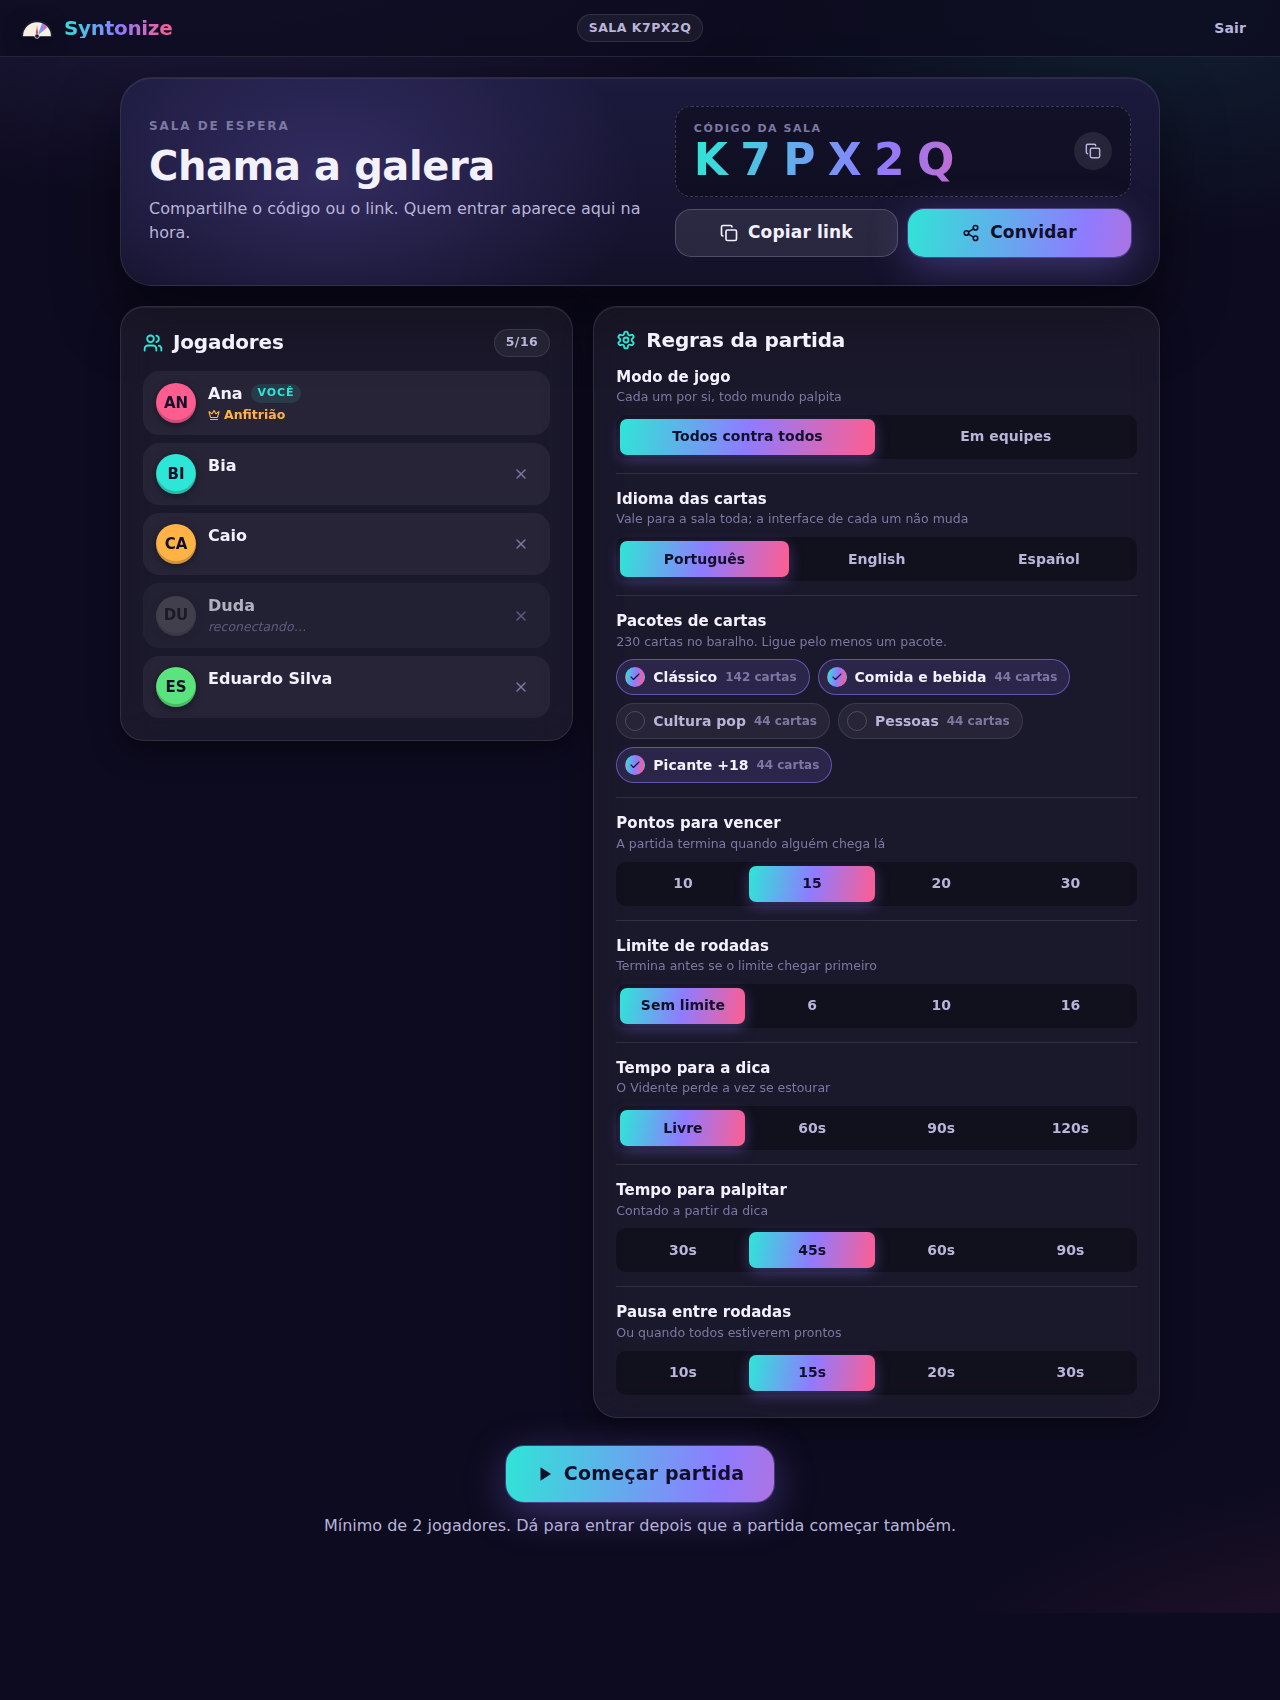
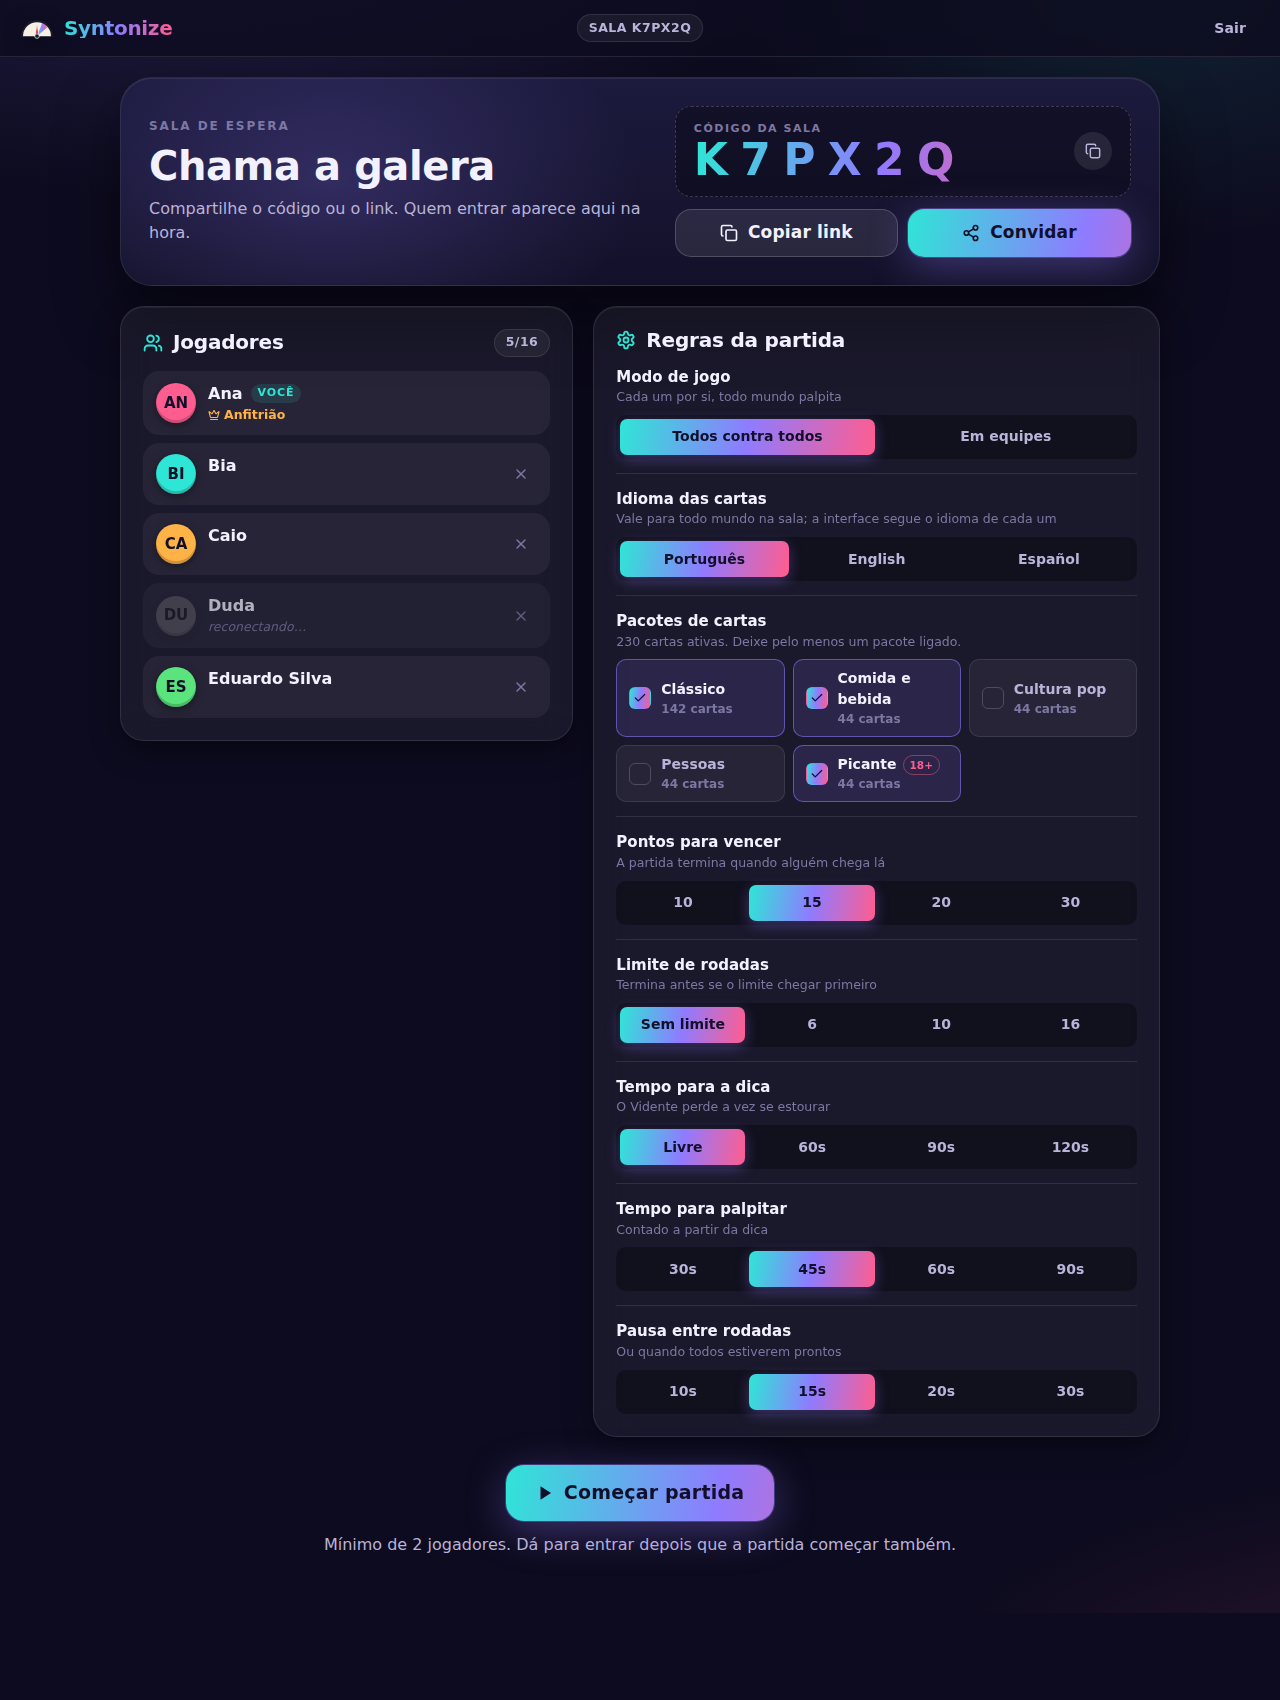
Ajusta seletor de pacotes à referência de layout
Pacotes viram checkboxes grandes em grade, com selo 18+ no Picante e o
total de "cartas ativas"; nota do idioma das cartas reescrita.

Claude-Session: https://claude.ai/code/session_01Rh3UrqbmGMJqwe9VHm7B96

diff --git a/src/components/CardPackPicker/CardPackPicker.module.css b/src/components/CardPackPicker/CardPackPicker.module.css
@@ -1,21 +1,20 @@
 .packs {
-    display: flex;
-    flex-wrap: wrap;
+    display: grid;
+    grid-template-columns: repeat(auto-fill, minmax(150px, 1fr));
     gap: 8px;
 }
 
 .pack {
-    display: inline-flex;
+    display: flex;
     align-items: center;
-    gap: 8px;
-    min-height: 36px;
-    padding: 0 12px 0 8px;
-    font-size: 14px;
-    font-weight: 800;
+    gap: 10px;
+    min-height: 52px;
+    padding: 8px 12px;
+    text-align: left;
     color: var(--text-2);
     background: var(--surface);
     border: 1px solid var(--line);
-    border-radius: var(--radius-full);
+    border-radius: var(--radius-sm);
     transition: background var(--t-fast), border-color var(--t-fast), color var(--t-fast);
 }
 
@@ -33,9 +32,9 @@
     display: inline-flex;
     align-items: center;
     justify-content: center;
-    width: 20px;
-    height: 20px;
-    border-radius: 50%;
+    width: 22px;
+    height: 22px;
+    border-radius: 6px;
     border: 1.5px solid var(--line-2);
     flex-shrink: 0;
 }
@@ -53,13 +52,32 @@
     background: var(--brand-gradient);
 }
 
+.packText {
+    display: flex;
+    flex-direction: column;
+    min-width: 0;
+}
+
 .packName {
-    white-space: nowrap;
+    display: inline-flex;
+    align-items: center;
+    gap: 6px;
+    font-size: 14px;
+    font-weight: 800;
+}
+
+.adult {
+    padding: 0 6px;
+    font-size: 10.5px;
+    font-weight: 800;
+    line-height: 18px;
+    color: var(--pink);
+    border: 1px solid rgba(255, 93, 143, 0.45);
+    border-radius: var(--radius-full);
 }
 
 .packCount {
     font-size: 12px;
     font-weight: 700;
     color: var(--text-3);
-    white-space: nowrap;
 }

diff --git a/src/i18n/es.ts b/src/i18n/es.ts
@@ -114,9 +114,9 @@ export const es: Dictionary = {
     'lobby.minHint': 'Mínimo {min} jugadores. También se puede entrar con la partida empezada.',
     'lobby.waitingHost': 'Esperando a que el anfitrión empiece la partida…',
     'lobby.cardLanguage': 'Idioma de las cartas',
-    'lobby.cardLanguageHint': 'Vale para toda la sala; la interfaz de cada uno no cambia',
+    'lobby.cardLanguageHint': 'Vale para todos en la sala; la interfaz sigue el idioma de cada uno',
     'lobby.packs': 'Paquetes de cartas',
-    'lobby.packsHint': { one: '{count} carta en el mazo. Deja al menos un paquete activo.', other: '{count} cartas en el mazo. Deja al menos un paquete activo.' },
+    'lobby.packsHint': { one: '{count} carta activa. Deja al menos un paquete activo.', other: '{count} cartas activas. Deja al menos un paquete activo.' },
     'packs.cards': { one: '{count} carta', other: '{count} cartas' },
     'packs.classic': 'Clásico',
     'packs.classicHint': 'El mazo original: opiniones, cosas, situaciones y naturaleza',
@@ -126,8 +126,9 @@ export const es: Dictionary = {
     'packs.popHint': 'Pelis, series, música, videojuegos y memes',
     'packs.people': 'Personas',
     'packs.peopleHint': 'Manías, amistades y comportamiento',
-    'packs.spicy': 'Picante +18',
+    'packs.spicy': 'Picante',
     'packs.spicyHint': 'Ligoteo, citas y noches de fiesta. Picante, sin groserías',
+    'packs.adultBadge': '18+',
     'settings.targetScore': 'Puntos para ganar',
     'settings.targetScoreHint': 'La partida termina cuando alguien llega',
     'settings.targetScoreHintTeams': 'La partida termina cuando un equipo llega',

diff --git a/src/i18n/pt-BR.ts b/src/i18n/pt-BR.ts
@@ -126,9 +126,9 @@ export const ptBR = {
     'lobby.minHint': 'Mínimo de {min} jogadores. Dá para entrar depois que a partida começar também.',
     'lobby.waitingHost': 'Esperando o anfitrião começar a partida…',
     'lobby.cardLanguage': 'Idioma das cartas',
-    'lobby.cardLanguageHint': 'Vale para a sala toda; a interface de cada um não muda',
+    'lobby.cardLanguageHint': 'Vale para todo mundo na sala; a interface segue o idioma de cada um',
     'lobby.packs': 'Pacotes de cartas',
-    'lobby.packsHint': { one: '{count} carta no baralho. Ligue pelo menos um pacote.', other: '{count} cartas no baralho. Ligue pelo menos um pacote.' },
+    'lobby.packsHint': { one: '{count} carta ativa. Deixe pelo menos um pacote ligado.', other: '{count} cartas ativas. Deixe pelo menos um pacote ligado.' },
     'packs.cards': { one: '{count} carta', other: '{count} cartas' },
     'packs.classic': 'Clássico',
     'packs.classicHint': 'O baralho original: opinião, coisas, situações e natureza',
@@ -138,8 +138,9 @@ export const ptBR = {
     'packs.popHint': 'Filmes, séries, música, jogos e memes',
     'packs.people': 'Pessoas',
     'packs.peopleHint': 'Manias, amizades e comportamento',
-    'packs.spicy': 'Picante +18',
+    'packs.spicy': 'Picante',
     'packs.spicyHint': 'Paquera, encontros e noitadas. Picante, sem baixaria',
+    'packs.adultBadge': '18+',
     'settings.targetScore': 'Pontos para vencer',
     'settings.targetScoreHint': 'A partida termina quando alguém chega lá',
     'settings.targetScoreHintTeams': 'A partida termina quando um time chega lá',

diff --git a/src/i18n/en.ts b/src/i18n/en.ts
@@ -114,9 +114,9 @@ export const en: Dictionary = {
     'lobby.minHint': 'At least {min} players. People can also join after the game starts.',
     'lobby.waitingHost': 'Waiting for the host to start the game…',
     'lobby.cardLanguage': 'Card language',
-    'lobby.cardLanguageHint': 'Applies to the whole room; everyone keeps their own interface language',
+    'lobby.cardLanguageHint': 'Applies to everyone in the room; the interface follows each player’s language',
     'lobby.packs': 'Card packs',
-    'lobby.packsHint': { one: '{count} card in the deck. Keep at least one pack on.', other: '{count} cards in the deck. Keep at least one pack on.' },
+    'lobby.packsHint': { one: '{count} active card. Keep at least one pack on.', other: '{count} active cards. Keep at least one pack on.' },
     'packs.cards': { one: '{count} card', other: '{count} cards' },
     'packs.classic': 'Classic',
     'packs.classicHint': 'The original deck: opinions, things, situations and nature',
@@ -126,8 +126,9 @@ export const en: Dictionary = {
     'packs.popHint': 'Movies, TV, music, games and memes',
     'packs.people': 'People',
     'packs.peopleHint': 'Quirks, friendships and behavior',
-    'packs.spicy': 'Spicy 18+',
+    'packs.spicy': 'Spicy',
     'packs.spicyHint': 'Flirting, dates and wild nights. Spicy, never crude',
+    'packs.adultBadge': '18+',
     'settings.targetScore': 'Points to win',
     'settings.targetScoreHint': 'The game ends when someone gets there',
     'settings.targetScoreHintTeams': 'The game ends when a team gets there',

diff --git a/src/components/CardPackPicker/CardPackPicker.tsx b/src/components/CardPackPicker/CardPackPicker.tsx
@@ -75,9 +75,14 @@ export default function CardPackPicker({ settings, isHost, onUpdateSettings }: C
                                 title={t(PACK_LABELS[pack].hint)}
                                 onClick={() => toggle(pack)}
                             >
-                                <span className={styles.check} aria-hidden="true">{on && <CheckIcon size={12} />}</span>
-                                <span className={styles.packName}>{t(PACK_LABELS[pack].name)}</span>
-                                <span className={styles.packCount}>{t('packs.cards', { count: PACK_SIZES[pack] })}</span>
+                                <span className={styles.check} aria-hidden="true">{on && <CheckIcon size={14} />}</span>
+                                <span className={styles.packText}>
+                                    <span className={styles.packName}>
+                                        {t(PACK_LABELS[pack].name)}
+                                        {pack === 'spicy' && <span className={styles.adult}>{t('packs.adultBadge')}</span>}
+                                    </span>
+                                    <span className={styles.packCount}>{t('packs.cards', { count: PACK_SIZES[pack] })}</span>
+                                </span>
                             </button>
                         )
                     })}

diff --git a/MELHORIAS.md b/MELHORIAS.md
@@ -27,7 +27,7 @@ Capturas (renderização estática dos componentes, 1280 px e 390 px) em `docs/s
 | ✅ | **Pontuação do Vidente reequilibrada** | Agora recebe a **média** dos pontos de quem palpitou (máx. 4). Antes somava bônus por cada jogador: com 8 pessoas o Vidente podia fazer 14 pontos numa rodada contra 5 de um palpiteiro. |
 | ✅ | **Modo em equipes** | Regra do Wavelength original como alternativa no lobby: dois times balanceados ao entrar (troca de time e anfitrião movendo gente), Vidente rodando dentro do time, ponteiro compartilhado em tempo real só para o time da vez (`game:needleMove` com throttle no cliente e no servidor), palpite único do time, fase "esquerda ou direita" do adversário (`game:sideGuess`, 1 ponto), placar por time a 10 pontos, regra de revanche no 4 (opcional), resultados e estatísticas por time. Testes em `tests/teams.test.ts`. |
 | ⬜ P2 | **Modo cooperativo** | Como no app oficial: todos no mesmo time, 7 rodadas, meta de pontos conjunta. Fácil de derivar do modo atual. |
-| ✅ | **Cartas em outros idiomas / pacotes temáticos** | Baralho em `shared/cards/{pt-BR,en,es}.ts` com os mesmos ids nos três idiomas (expressões adaptadas, não traduzidas ao pé da letra). Pacotes: Clássico (142), Comida e bebida, Cultura pop, Pessoas e Picante +18 (44 cada). No lobby o anfitrião escolhe o idioma das cartas (independente do idioma da interface de cada jogador) e liga/desliga pacotes; convidados veem em modo leitura. `pickCard` sorteia só do baralho filtrado e reembaralha quando ele acaba; a regra da dica usa stop words do idioma das cartas. Testes em `tests/cards.test.ts`. |
+| ✅ | **Cartas em outros idiomas / pacotes temáticos** | Baralho em `shared/cards/{pt-BR,en,es}.ts` com os mesmos ids nos três idiomas (expressões adaptadas, não traduzidas ao pé da letra). Pacotes: Clássico (142), Comida e bebida, Cultura pop, Pessoas e Picante 18+ (44 cada). No lobby o anfitrião escolhe o idioma das cartas (independente do idioma da interface de cada jogador) e liga/desliga pacotes; convidados veem em modo leitura. `pickCard` sorteia só do baralho filtrado e reembaralha quando ele acaba; a regra da dica usa stop words do idioma das cartas. Testes em `tests/cards.test.ts`. |
 | ⬜ P3 | **Cartas personalizadas** | O anfitrião digita pares próprios para a partida. |
 
 ## 2. Bugs e robustez (servidor)

diff --git a/README.md b/README.md
@@ -83,7 +83,7 @@ independente do idioma da interface de cada um) e quais **pacotes** entram no ba
 | Comida e bebida | 44 | do boteco ao restaurante chique |
 | Cultura pop | 44 | filmes, séries, música, jogos e memes |
 | Pessoas | 44 | manias, amizades e comportamento |
-| Picante +18 | 44 | paquera, encontros e noitadas, sem conteúdo explícito ou ofensivo |
+| Picante (18+) | 44 | paquera, encontros e noitadas, sem conteúdo explícito ou ofensivo |
 
 As cartas não se repetem até o baralho escolhido acabar. Os textos ficam em `shared/cards/<idioma>.ts`, com os
 mesmos ids e pacotes nos três idiomas (`tests/cards.test.ts` confere).
